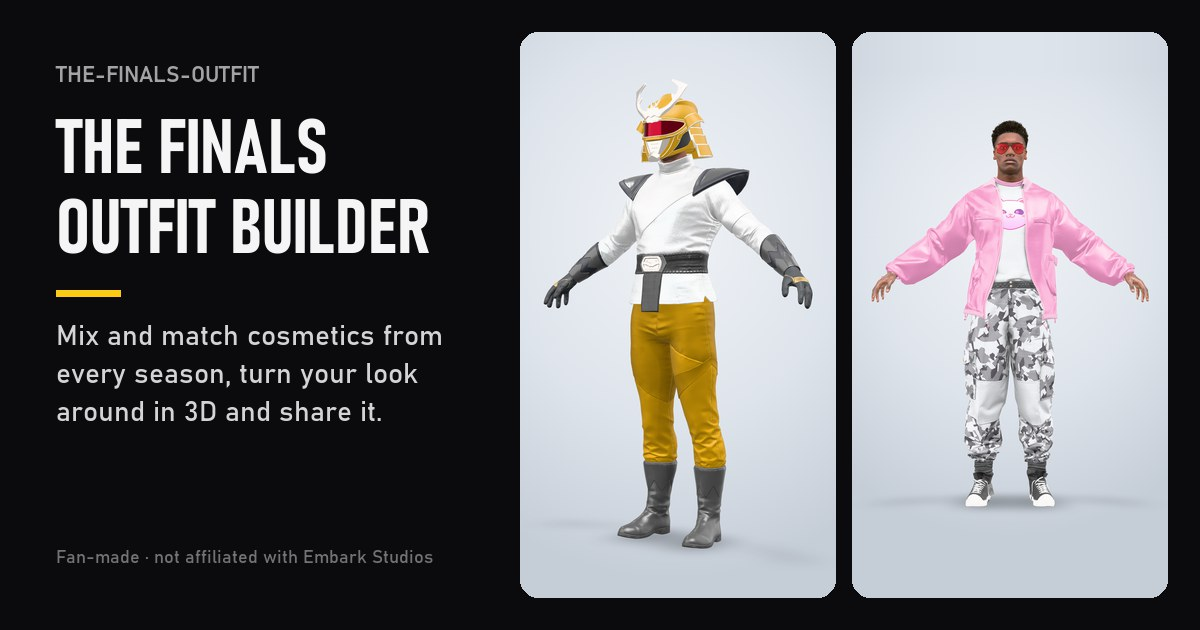
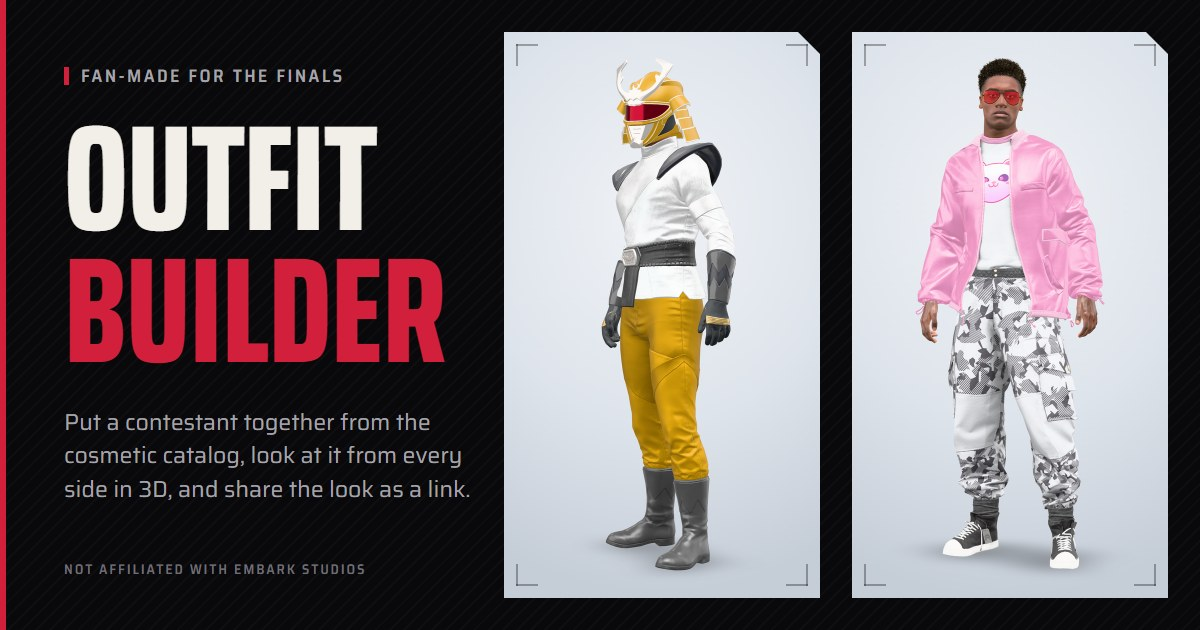
Recapture the link card in the redesign's style and recheck the SEO tags
- public/og-card.jpg: re-rendered through the redesigned app on the production
  asset hosts and laid out in its style: Saira, the hatched near-black set, the
  crimson accent, chamfered stage panels with viewfinder brackets, and the
  welcome screen's sentence. The two looks are the same, now in the default
  outfit-screen idle held at a fixed time. No counts, since they go stale.
- public/sitemap.xml: still the one root URL. The comment now says why: the
  builder, #/roadmap and #/o/... are hash routes, which crawlers treat as the
  same URL.
- vite.config.ts: the noindex developer-catalog copy drops the canonical link.
  A noindex page that names the production page as canonical sends conflicting
  signals. The build fails if the canonical cannot be found to strip.
- index.html: the shell comment no longer contains tag-like text.
- _docs/seo-2026-11-06: the capture, panel and compose scripts, plus the record
  of checks.

Changed region(s): [[0.0, 0.0, 0.9558, 1.0], [0.9558, 0.0603, 0.9867, 0.0905]]

diff --git a/vite.config.ts b/vite.config.ts
@@ -112,8 +112,13 @@ export default defineConfig(({ mode }) => {
       generateBundle(_options, bundle) {
         const entry = bundle["index.html"];
         if (!entry || entry.type !== "asset" || typeof entry.source !== "string") throw new Error("Missing app HTML entry");
+        // noindex, and no canonical link: a noindex page that names the production page as its canonical
+        // sends search engines conflicting signals.
+        const canonical = /\s*<link rel="canonical"[^>]*>/;
+        if (!canonical.test(entry.source)) throw new Error("App HTML entry has no canonical link to strip");
         this.emitFile({ type: "asset", fileName: `${DEVELOPER_CATALOG_PATH}/index.html`,
           source: entry.source.replace("<head>", '<head>\n    <meta name="robots" content="noindex, nofollow" />')
+            .replace(canonical, "")
             .replace(/<title>.*?<\/title>/, '<title>Developer cosmetic catalog</title>') });
       },
     }],

diff --git a/index.html b/index.html
@@ -51,8 +51,8 @@
       page, and a blank page is indistinguishable from a broken one. This is plain
       markup in the HTML document, so it paints on first byte with no JS and no
       network round trip. If the catalog cannot load, #boot-status says so. Inline
-      styles only: the stylesheet arrives with the bundle. The <h1> and <p> are also
-      what search engines read before React mounts.
+      styles only: the stylesheet arrives with the bundle. The heading and the sentence
+      under it are also what search engines read before React mounts.
     -->
     <div id="root">
       <div style="min-height:100vh;min-height:100dvh;display:flex;flex-direction:column;align-items:center;justify-content:center;gap:14px;background:#09090b;color:#f2efe9;font-family:ui-sans-serif,system-ui,sans-serif;text-align:center;padding:24px">

diff --git a/_docs/seo-2026-11-06/og-card-panels.py b/_docs/seo-2026-11-06/og-card-panels.py
@@ -1,0 +1,39 @@
+"""SEO basics refresh (6 Nov 2026): cut the two link-card panels out of og-card-capture.mjs renders. Each crop is sized
+from the figure's bounding box (background = the per-row colour of the render's edge columns) and the studio gradient
+is extended vertically when the figure needs it, so nothing is clipped. Panels are written at 2x the card's panel size;
+og-card-compose.mjs lays them out. Refuses to overwrite.
+  python -I -X utf8 _docs/seo-2026-11-06/og-card-panels.py RENDERS WORK_DIR"""
+import sys
+from pathlib import Path
+import numpy as np
+from PIL import Image
+
+renders, work = Path(sys.argv[1]), Path(sys.argv[2])
+PANELS = ['sentinel.y-36.t2.png', 'street.y0.t2.png']
+PW, PH = 316 * 2, 566 * 2  # the card's panel size (og-card-compose.mjs), at 2x
+if work.exists(): raise SystemExit(f'Preserve {work}')
+work.mkdir(parents=True)
+
+def framed(im):
+    a = np.asarray(im, np.float32)
+    bg = (a[:, :8].mean(axis=1, keepdims=True) + a[:, -8:].mean(axis=1, keepdims=True)) / 2
+    fg = np.abs(a - bg).max(axis=2) > 18
+    ys, xs = np.nonzero(fg)
+    x0, x1, y0, y1 = xs.min(), xs.max(), ys.min(), ys.max()
+    margin = 0.05 * (y1 - y0)
+    cw = (x1 - x0) + 2 * margin
+    ch = max((y1 - y0) + 2 * margin, cw * PH / PW)
+    cw = ch * PW / PH
+    cx, cy = (x0 + x1) / 2, (y0 + y1) / 2
+    left, top = round(cx - cw / 2), round(cy - ch / 2)
+    if left < 0 or left + round(cw) > a.shape[1]: raise SystemExit('Figure too wide for the panel aspect')
+    pad_top, pad_bottom = max(0, -top), max(0, top + round(ch) - a.shape[0])
+    a = np.concatenate([np.repeat(a[:1], pad_top, axis=0), a, np.repeat(a[-1:], pad_bottom, axis=0)], axis=0)
+    top += pad_top
+    out = Image.fromarray(a[top:top + round(ch), left:left + round(cw)].clip(0, 255).astype(np.uint8))
+    return out.resize((PW, PH), Image.LANCZOS), (x0, y0, x1, y1)
+
+for k, name in enumerate(PANELS):
+    panel, box = framed(Image.open(renders / name).convert('RGB'))
+    panel.save(work / f'panel-{k + 1}.png')
+    print(name, 'figure box', box, '->', work / f'panel-{k + 1}.png')

diff --git a/_docs/seo-2026-11-06/README.md b/_docs/seo-2026-11-06/README.md
@@ -1,0 +1,72 @@
+# SEO basics refresh (6 Nov 2026)
+
+PR #15 (`claude/seo-basics-2026-10-29`, opened 29 Oct at `840cc9b`) conflicted with `main` after the redesign
+(#16), the 5 and 6 Nov releases (#19, #20), the showcase animation (#22) and the roadmap page (#23). The user asked
+on 6 Nov to bring it up to date ("make the 2 stale unstale"). `main` was merged into the branch; nothing was
+force-pushed. The 29 Oct record (untracked) is in the main checkout at `_docs/seo-2026-10-29/`.
+
+## What changed on the branch
+
+- **Merge of `main` (`af8a203`).** Only `index.html` conflicted. The redesign's shell, theme colour, boot status
+  and loading bar are kept, and so are the branch's search and preview tags.
+- **Title:** `THE FINALS Outfit Builder · Fan-made, try on cosmetics in 3D` (60 characters). The keywords come
+  first, and "fan-made" is kept from the redesign's title (`Outfit Builder · fan-made for THE FINALS`). The old
+  "Try Every Cosmetic in 3D" overclaimed, since some items are icon-only.
+- **Shell:** the redesign's "Outfit Builder" heading is now the `<h1>`, with "THE FINALS" as a small kicker inside
+  it (text "THE FINALS Outfit Builder"). The one-sentence description is set in the redesign's muted colour.
+- **No counts** in `index.html`, the card or the sitemap. They change with every catalog update and live in one place
+  in the app.
+- **`public/og-card.jpg`:** recaptured from the redesigned app and laid out in its style: Saira, the near-black set
+  with hatching, the crimson accent, chamfered stage panels with viewfinder brackets, and the welcome screen's own
+  sentence. It has the same two looks (Sentinel set; pink track jacket with camo cargo pants), now in the
+  outfit-screen idle that the app plays by default, held at 2 s.
+- **`public/sitemap.xml`:** still one URL. The builder, the roadmap (`#/roadmap`) and outfit links (`#/o/...`) are
+  hash routes, so crawlers see them as the root URL. The comment that said routes are "served by the SPA fallback"
+  was wrong for hash routes and is corrected.
+- **`vite.config.ts`:** the developer-catalog copy of the page is `noindex, nofollow`. It now also drops the
+  canonical link, because a noindex page that names the production page as canonical sends conflicting signals.
+  The build fails if the canonical cannot be found to strip.
+
+## How the card was made
+
+Run these from the worktree root in Git Bash.
+
+1. Start a dev server of this branch that uses the production asset hosts, copying the `VITE_*_BASE` values from
+   `.github/workflows/deploy.yml`. Port 5197 was used. The capture hooks are dev-only.
+2. `MSYS_NO_PATHCONV=1 ANIM_TIMES=2 APP_URL=http://127.0.0.1:5197 node _docs/seo-2026-11-06/og-card-capture.mjs OUT`
+3. `python -I -X utf8 _docs/seo-2026-11-06/og-card-panels.py OUT WORK`
+4. `node _docs/seo-2026-11-06/og-card-compose.mjs WORK WORK/og-card.jpg`
+
+Evidence, untracked because renders of extracted geometry are extracted material, is in the main checkout under
+`_docs/seo-2026-10-29/`:
+
+- `renders-v3/`: the first attempt. The redesign's sticky top bar and slot strip leaked into the canvas shots.
+- `renders-v4/`: clean.
+- `card-v3/`: the panels, `card.html` and the card.
+
+The harness's `frameViewer` hides only the viewer's own overlays, so `og-card-capture.mjs` also hides every branch of
+the page that does not contain the canvas. Other harness callers that use a viewport narrower than 1024 px may hit
+the same leak.
+
+## Checks (agent)
+
+- `npm test`: in a bare worktree, 678 pass and 8 fail. The 8 are the asset-fixture tests that need
+  `public/models`. With `public/models` junctioned in from the main checkout: 690 pass, 0 fail, 1 skipped. The
+  junction was removed afterwards.
+- `npm run typecheck`: pass.
+- Production build with the deploy workflow's environment and `VITE_BASE=/the-finals-outfit/`: pass.
+  - `check:catalog-split`: OK, 5 preloads on both pages.
+  - `validate:share-links`: 3,331 permanent IDs.
+  - `validate:catalog`: OK, with the 2 usual bare-checkout warnings: referenced assets are not present locally, and
+    `ASSETS_BASE` is not set.
+- Built heads, parsed:
+  - The app page has the title, canonical, `og:image`, `summary_large_image`, valid JSON-LD (WebApplication), the
+    h1 "THE FINALS Outfit Builder", `#boot-status` and 5 catalog preloads.
+  - The developer catalog has `noindex, nofollow` and no canonical.
+- `vite preview` at `/the-finals-outfit/`:
+  - `og-card.jpg` is served as image/jpeg (115,935 bytes) and `sitemap.xml` as text/xml.
+  - The builder boots with the new title, no failed requests and the welcome dialog.
+  - `#/roadmap` renders under its own title.
+  - The static shell fits a 375 px phone.
+- Trap: in Git Bash, `VITE_BASE=/the-finals-outfit/` becomes `/Program Files/Git/the-finals-outfit/` unless
+  `MSYS_NO_PATHCONV=1` is set. The first preview build was broken this way. `check:catalog-split` does not catch it.
